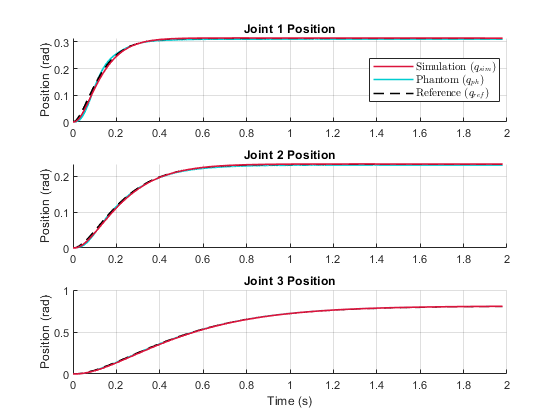
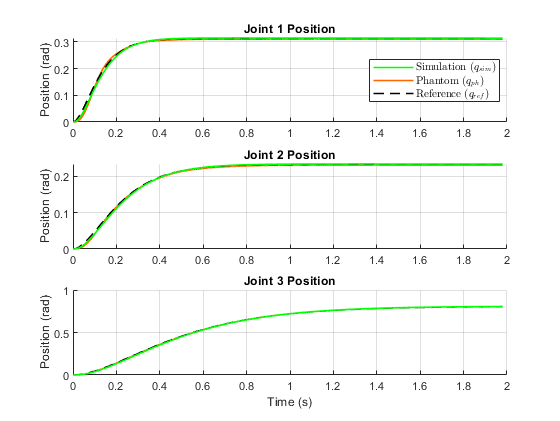
change to figures

diff --git a/October2025/SingleSection/dataPlotting.m b/October2025/SingleSection/dataPlotting.m
@@ -2,7 +2,7 @@
 close all
 % publish('plottingData.m', 'html');
 
-for i = 1:1
+for i = 1:2
     % Construct filenames
     PdataFile = sprintf('Pdata%d.mat', i);
     SdataFile = sprintf('Sdata%d.mat', i);
@@ -82,7 +82,7 @@ function plotPhantomSimulation(Pdata, Sdata, Gdata, figPrefix)
     
     palette      = gem;
     colorSim     = [0 1 0];   % Simulation -> turquoise
-    colorPhantom = [1 0 1];   % Phantom    -> tanzanite
+    colorPhantom =[1.0 0.4 0.0] ;   % Phantom    -> tanzanite
     colorRef     = [0 0 0];        % Reference  -> black
     colorGain    = [1 0 1];        % Gain       -> magenta
     startColor = [0 0 1];      % clean vivid green
